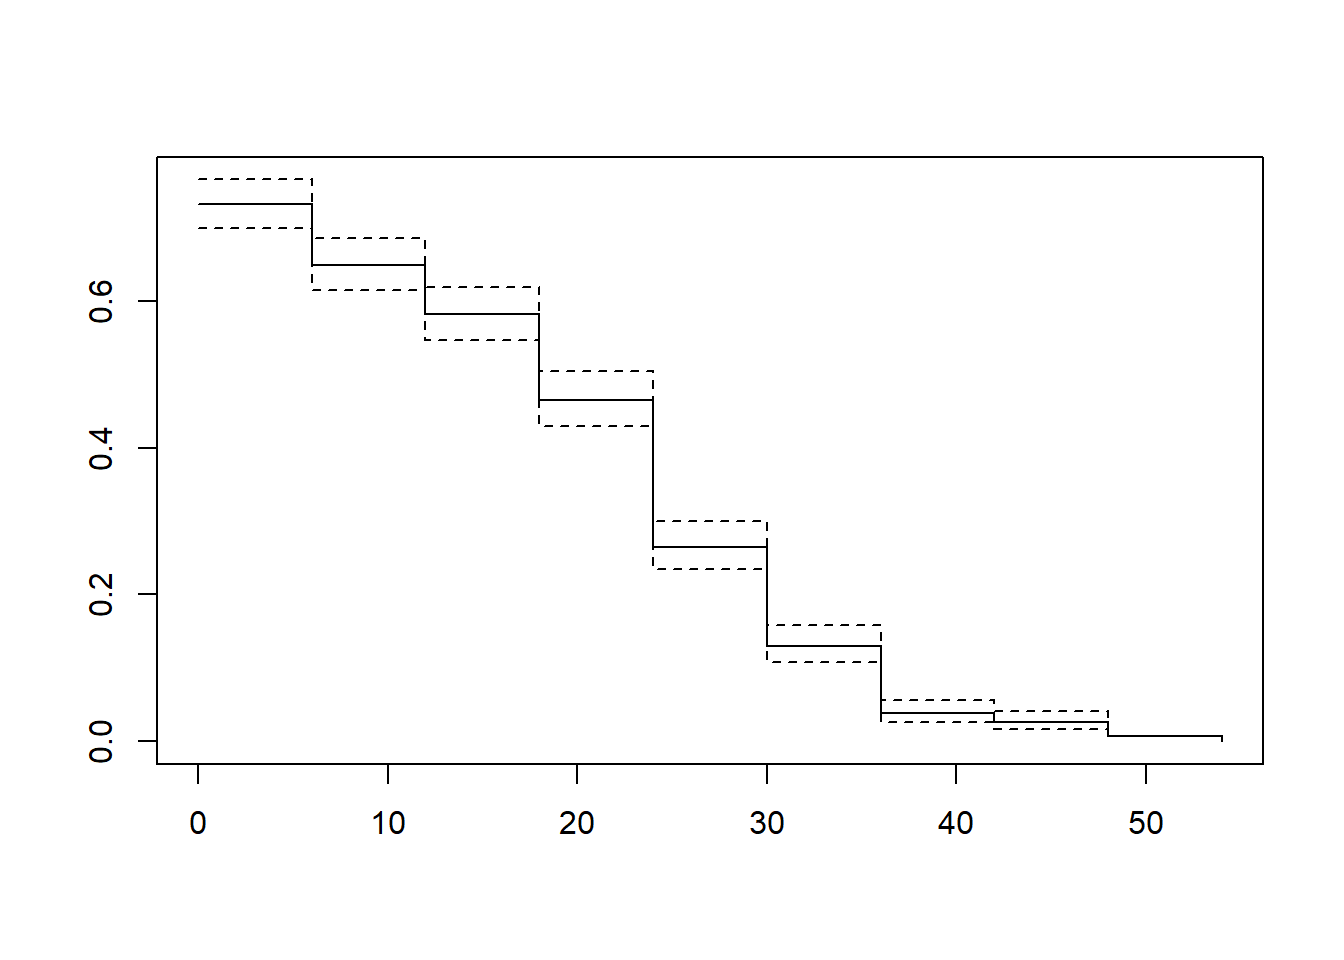
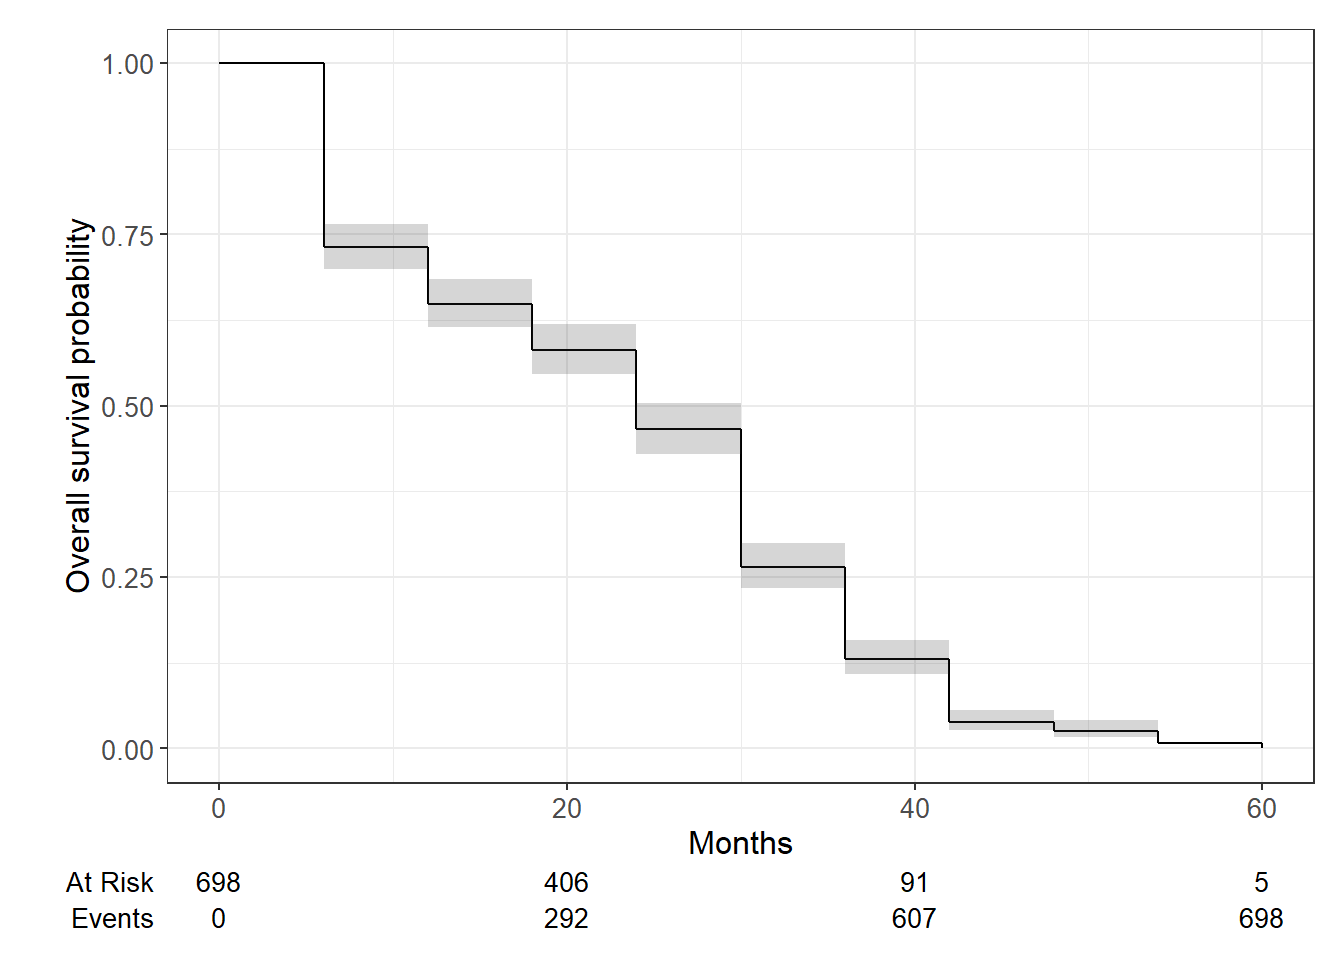
1/8/2024

diff --git a/docs/2023_12_03_Cem.html b/docs/2023_12_03_Cem.html
@@ -388,7 +388,7 @@ aria-hidden="true"></span> </a>
 <div class="tab-content">
 <div id="summary" class="tab-pane fade in active">
 <p>
-<strong>Last updated:</strong> 2024-01-05
+<strong>Last updated:</strong> 2024-01-08
 </p>
 <p>
 <strong>Checks:</strong> <span
@@ -548,15 +548,15 @@ analysis/Rfunctions.R
 <div class="panel panel-default">
 <div class="panel-heading">
 <p class="panel-title">
-<a data-toggle="collapse" data-parent="#workflowr-checks" href="#strongRepositoryversionstrongahrefhttpsgithubcomhan16Collaborationstree7b9322bb209fba268c4d2120e4bcfdff76a8ae0ftargetblank7b9322ba">
+<a data-toggle="collapse" data-parent="#workflowr-checks" href="#strongRepositoryversionstrongahrefhttpsgithubcomhan16Collaborationstree9bdae9252f030f1b357f996534783e18262ee8f5targetblank9bdae92a">
 <span class="glyphicon glyphicon-ok text-success"
 aria-hidden="true"></span> <strong>Repository version:</strong>
-<a href="https://github.com/han16/Collaborations/tree/7b9322bb209fba268c4d2120e4bcfdff76a8ae0f" target="_blank">7b9322b</a>
+<a href="https://github.com/han16/Collaborations/tree/9bdae9252f030f1b357f996534783e18262ee8f5" target="_blank">9bdae92</a>
 </a>
 </p>
 </div>
 <div
[2 lines of base64/hex data omitted]
 class="panel-collapse collapse">
 <div class="panel-body">
 <p>
@@ -566,7 +566,7 @@ reproducibility.
 </p>
 <p>
 The results in this page were generated with repository version
-<a href="https://github.com/han16/Collaborations/tree/7b9322bb209fba268c4d2120e4bcfdff76a8ae0f" target="_blank">7b9322b</a>.
+<a href="https://github.com/han16/Collaborations/tree/9bdae9252f030f1b357f996534783e18262ee8f5" target="_blank">9bdae92</a>.
 See the <em>Past versions</em> tab to see a history of the changes made
 to the R Markdown and HTML files.
 </p>
@@ -587,7 +587,6 @@ Ignored files:
 
 Unstaged changes:
     Modified:   analysis/2023_12_03_Cem.Rmd
-    Modified:   analysis/Rfunctions.R
 
 </code></pre>
 <p>
@@ -633,6 +632,40 @@ Message
 </tr>
 </thead>
 <tbody>
+<tr>
+<td>
+Rmd
+</td>
+<td>
+<a href="https://github.com/han16/Collaborations/blob/9bdae9252f030f1b357f996534783e18262ee8f5/analysis/2023_12_03_Cem.Rmd" target="_blank">9bdae92</a>
+</td>
+<td>
+han
+</td>
+<td>
+2024-01-05
+</td>
+<td>
+1/5/2024
+</td>
+</tr>
+<tr>
+<td>
+html
+</td>
+<td>
+<a href="https://rawcdn.githack.com/han16/Collaborations/9bdae9252f030f1b357f996534783e18262ee8f5/docs/2023_12_03_Cem.html" target="_blank">9bdae92</a>
+</td>
+<td>
+han
+</td>
+<td>
+2024-01-05
+</td>
+<td>
+1/5/2024
+</td>
+</tr>
 <tr>
 <td>
 Rmd
@@ -768,22 +801,9 @@ han
 </div>
 <div id="kaplan-meier-survival-analyses" class="section level3">
 <h3>Kaplan-Meier survival analyses</h3>
-<pre><code>Call: survfit(formula = Surv(survival_time, status) ~ 1, data = data_ssc_survival_complete)
-
- time n.risk n.event survival std.err lower 95% CI upper 95% CI
-    0    698     187  0.73209 0.01676      0.69996       0.7657
-    6    511      58  0.64900 0.01807      0.61454       0.6854
-   12    453      47  0.58166 0.01867      0.54619       0.6194
-   18    406      81  0.46562 0.01888      0.43004       0.5041
-   24    325     140  0.26504 0.01671      0.23424       0.2999
-   30    185      94  0.13037 0.01274      0.10764       0.1579
-   36     91      64  0.03868 0.00730      0.02672       0.0560
-   42     27       9  0.02579 0.00600      0.01635       0.0407
-   48     18      13  0.00716 0.00319      0.00299       0.0172
-   54      5       5  0.00000     NaN           NA           NA</code></pre>
 <pre><code>List of 16
  $ n        : int 698
- $ time     : num [1:10] 0 6 12 18 24 30 36 42 48 54
+ $ time     : num [1:10] 6 12 18 24 30 36 42 48 54 60
  $ n.risk   : num [1:10] 698 511 453 406 325 185 91 27 18 5
  $ n.event  : num [1:10] 187 58 47 81 140 94 64 9 13 5
  $ n.censor : num [1:10] 0 0 0 0 0 0 0 0 0 0
@@ -802,19 +822,25 @@ han
 <pre><code>Call: survfit(formula = Surv(survival_time, status) ~ 1, data = data_ssc_survival_complete)
 
  time n.risk n.event survival std.err lower 95% CI upper 95% CI
-    0    698     187  0.73209 0.01676      0.69996       0.7657
-    6    511      58  0.64900 0.01807      0.61454       0.6854
-   12    453      47  0.58166 0.01867      0.54619       0.6194
-   18    406      81  0.46562 0.01888      0.43004       0.5041
-   24    325     140  0.26504 0.01671      0.23424       0.2999
-   30    185      94  0.13037 0.01274      0.10764       0.1579
-   36     91      64  0.03868 0.00730      0.02672       0.0560
-   42     27       9  0.02579 0.00600      0.01635       0.0407
-   48     18      13  0.00716 0.00319      0.00299       0.0172
-   54      5       5  0.00000     NaN           NA           NA</code></pre>
-<p><img src="figure/2023_12_03_Cem.Rmd/unnamed-chunk-3-1.png" width="672" style="display: block; margin: auto;" /><img src="figure/2023_12_03_Cem.Rmd/unnamed-chunk-3-2.png" width="672" style="display: block; margin: auto;" /><img src="figure/2023_12_03_Cem.Rmd/unnamed-chunk-3-3.png" width="672" style="display: block; margin: auto;" /><img src="figure/2023_12_03_Cem.Rmd/unnamed-chunk-3-4.png" width="672" style="display: block; margin: auto;" /></p>
-<p>*<a
-href="https://www.emilyzabor.com/tutorials/survival_analysis_in_r_tutorial.html">reference</a></p>
+    6    698     187  0.73209 0.01676      0.69996       0.7657
+   12    511      58  0.64900 0.01807      0.61454       0.6854
+   18    453      47  0.58166 0.01867      0.54619       0.6194
+   24    406      81  0.46562 0.01888      0.43004       0.5041
+   30    325     140  0.26504 0.01671      0.23424       0.2999
+   36    185      94  0.13037 0.01274      0.10764       0.1579
+   42     91      64  0.03868 0.00730      0.02672       0.0560
+   48     27       9  0.02579 0.00600      0.01635       0.0407
+   54     18      13  0.00716 0.00319      0.00299       0.0172
+   60      5       5  0.00000     NaN           NA           NA</code></pre>
+<p><img src="figure/2023_12_03_Cem.Rmd/unnamed-chunk-3-1.png" width="672" style="display: block; margin: auto;" /><img src="figure/2023_12_03_Cem.Rmd/unnamed-chunk-3-2.png" width="672" style="display: block; margin: auto;" /></p>
+<ul>
+<li><p><a
+href="https://www.emilyzabor.com/tutorials/survival_analysis_in_r_tutorial.html">reference</a></p></li>
+<li><p><code>TT:SSC_Placement_Technique=1</code> vs
+<code>HT:SSC_Placement_Technique=2</code></p></li>
+<li><p><code>At Risk: No. survivals</code>,
+<code>Events: No.failures</code></p></li>
+</ul>
 <pre><code>Call:
 survdiff(formula = Surv(survival_time, status) ~ SSC_Placement_Technique, 
     data = data_ssc_survival_complete)
